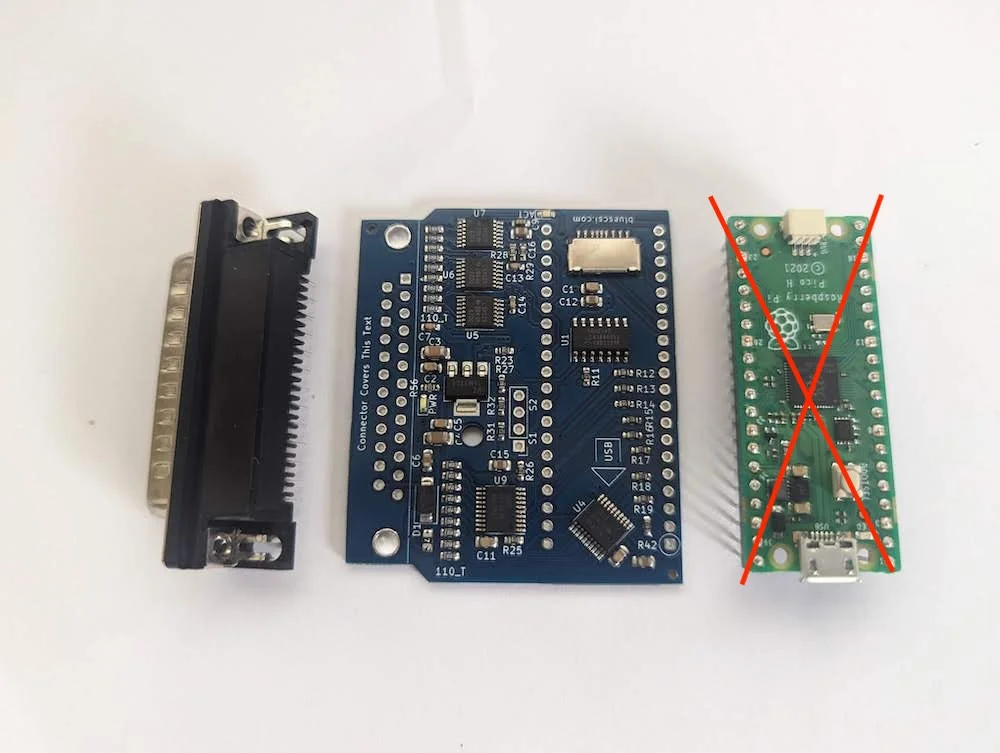
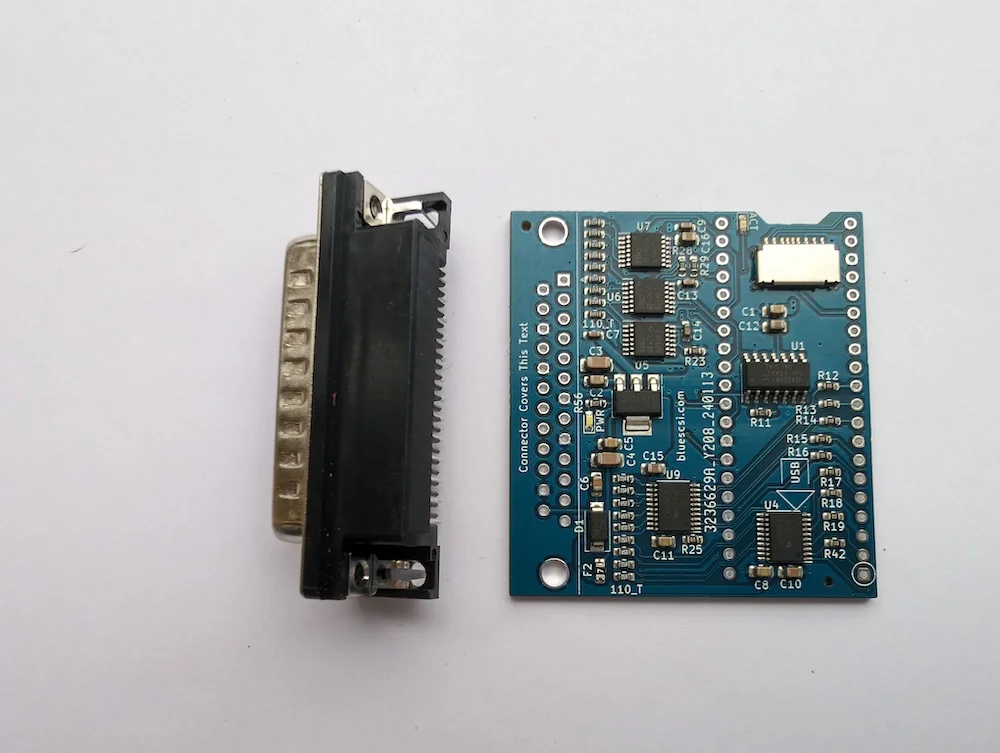
Update DB25 stuff

diff --git a/v2db25miniboardeu.md b/v2db25miniboardeu.md
@@ -6,7 +6,8 @@ cart_name: "V2 BlueSCSI DB25 Mini Board EU"
 cart_description: "V2 BlueSCSI DB25 Mini Board only Solder Kit"
 cart_price: 48
 cart_image: "assets/img/v2db25miniboard.webp"
-cart_image1: "assets/img/DB25mini_pcb.jpg"
+cart_image1: "assets/img/DB25_pcb.webp"
+cart_image2: "assets/img/DB25_pcb1.webp"
 tags: 
   - scsi
   - db25euv2
@@ -14,11 +15,11 @@ tags:
 
 ##### 🇪🇺 V2 DB25 Mini Board EU 🇪🇺
 
-{% include carousel2.html %}
+{% include carousel3.html %}
 
-This is the NEW Board only version 2 DB25 Mini Kit version of the BlueSCSI for EU buyers. This is usually used externally from the computer. Some soldering will be required to complete this device. If you prefer a complete and tested device please choose the Full option. The Suface Mount Components are pre-soldered to the PCB so only through hole soldering is required. The normal hex nuts have been replaced with flat screws so as to allow plugging into the 25 pin socket flush. You will need to supply your own Raspberry Pi Pico!
+This is the NEW Board (2024.01a) only version 2 DB25 Mini Kit version of the BlueSCSI for EU buyers. This is usually used externally from the computer. Some soldering will be required to complete this device. If you prefer a complete and tested device please choose the Full option. The Suface Mount Components are pre-soldered to the PCB so only through hole soldering is required. The normal hex nuts have been replaced with flat screws so as to allow plugging into the 25 pin socket flush. You will need to supply your own Raspberry Pi Pico!
 
-* New Mini Version 2 (No Pico supplied)
+* New Mini Version (2024.01a) (No Pico supplied)
 * SMD already soldered
 * Hex nuts replaced with screws
 * Always on termination (no termination jumper)

diff --git a/v2db25miniboarduk.md b/v2db25miniboarduk.md
@@ -6,7 +6,8 @@ cart_name: "V2 BlueSCSI DB25 Mini Board UK"
 cart_description: "V2 BlueSCSI DB25 Mini Board only Solder Kit"
 cart_price: 32
 cart_image: "assets/img/v2db25miniboard.webp"
-cart_image1: "assets/img/DB25mini_pcb.jpg"
+cart_image1: "assets/img/DB25_pcb.webp"
+cart_image2: "assets/img/DB25_pcb1.webp"
 tags: 
   - scsi
   - db25ukv2
@@ -14,11 +15,11 @@ tags:
 
 ##### 🇬🇧 V2 DB25 Mini Board UK 🇬🇧
 
-{% include carousel2.html %}
+{% include carousel3.html %}
 
-This is the NEW Board only version 2 DB25 Mini Kit version of the BlueSCSI for UK buyers. This is usually used externally from the computer. Some soldering will be required to complete this device. If you prefer a complete and tested device please choose the Full option. The Suface Mount Components are pre-soldered to the PCB so only through hole soldering is required. The normal hex nuts have been replaced with flat screws so as to allow plugging into the 25 pin socket flush. You will need to supply your own Raspberry Pi Pico!
+This is the NEW Board (2024.01a) only version 2 DB25 Mini Kit version of the BlueSCSI for UK buyers. This is usually used externally from the computer. Some soldering will be required to complete this device. If you prefer a complete and tested device please choose the Full option. The Suface Mount Components are pre-soldered to the PCB so only through hole soldering is required. The normal hex nuts have been replaced with flat screws so as to allow plugging into the 25 pin socket flush. You will need to supply your own Raspberry Pi Pico!
 
-* New Mini Version 2 (No Pico supplied)
+* New Mini Version (2024.01a) (No Pico supplied)
 * SMD already soldered
 * Hex nuts replaced with screws
 * Always on termination (no termination jumper)

diff --git a/v2db25minikiteu.md b/v2db25minikiteu.md
@@ -5,8 +5,9 @@ cart_itemid: v2db25minikiteu
 cart_name: "V2 BlueSCSI DB25 Mini Kit EU"
 cart_description: "V2 BlueSCSI DB25 Mini Solder Kit"
 cart_price: 54
-cart_image: "assets/img/v2db25minikit.jpg"
-cart_image1: "assets/img/DB25mini_pcb.jpg"
+cart_image: "assets/img/v2db25mini.webp"
+cart_image1: "assets/img/DB25_pcb.webp"
+cart_image2: "assets/img/DB25_pcb1.webp"
 tags: 
   - scsi
   - db25euv2
@@ -14,9 +15,9 @@ tags:
 
 ##### 🇪🇺 V2 DB25 Mini Kit EU 🇪🇺
 
-{% include carousel2.html %}
+{% include carousel3.html %}
 
-This is the NEW version 2 DB25 Mini Kit version of the BlueSCSI for EU buyers. This is usually used externally from the computer. Some soldering will be required to complete this device. If you prefer a complete and tested device please choose the Full option. The Suface Mount Components are pre-soldered to the PCB so only through hole soldering is required. The normal hex nuts have been replaced with flat screws so as to allow plugging into the 25 pin socket flush.
+This is the NEW version (2024.01a) DB25 Mini Kit version of the BlueSCSI for EU buyers. This is usually used externally from the computer. Some soldering will be required to complete this device. If you prefer a complete and tested device please choose the Full option. The Suface Mount Components are pre-soldered to the PCB so only through hole soldering is required. The normal hex nuts have been replaced with flat screws so as to allow plugging into the 25 pin socket flush.
 
 * New Mini Version 2
 * SMD already soldered

diff --git a/v2db25minikituk.md b/v2db25minikituk.md
@@ -5,8 +5,9 @@ cart_itemid: v2db25minikituk
 cart_name: "V2 BlueSCSI DB25 Mini Kit UK"
 cart_description: "V2 BlueSCSI DB25 Mini Solder Kit"
 cart_price: 38
-cart_image: "assets/img/v2db25minikit.jpg"
-cart_image1: "assets/img/DB25mini_pcb.jpg"
+cart_image: "assets/img/v2db25mini.webp"
+cart_image1: "assets/img/DB25_pcb.webp"
+cart_image2: "assets/img/DB25_pcb1.webp"
 tags: 
   - scsi
   - db25ukv2
@@ -14,9 +15,9 @@ tags:
 
 ##### 🇬🇧 V2 DB25 Mini Kit UK 🇬🇧
 
-{% include carousel2.html %}
+{% include carousel3.html %}
 
-This is the NEW version 2 DB25 Mini Kit version of the BlueSCSI for UK buyers. This is usually used externally from the computer. Some soldering will be required to complete this device. If you prefer a complete and tested device please choose the Full option. The Suface Mount Components are pre-soldered to the PCB so only through hole soldering is required. The normal hex nuts have been replaced with flat screws so as to allow plugging into the 25 pin socket flush.
+This is the NEW version (2024.01a) DB25 Mini Kit version of the BlueSCSI for UK buyers. This is usually used externally from the computer. Some soldering will be required to complete this device. If you prefer a complete and tested device please choose the Full option. The Suface Mount Components are pre-soldered to the PCB so only through hole soldering is required. The normal hex nuts have been replaced with flat screws so as to allow plugging into the 25 pin socket flush.
 
 * New Mini Version 2
 * SMD already soldered

diff --git a/v2db25minieu.md b/v2db25minieu.md
@@ -5,8 +5,9 @@ cart_itemid: v2db25minieu
 cart_name: "V2 BlueSCSI DB25 Mini EU"
 cart_description: "V2 BlueSCSI DB25 Mini - Full Version"
 cart_price: 65
-cart_image: "assets/img/v2db25mini.jpg"
-cart_image1: "assets/img/DB25mini_pcb.jpg"
+cart_image: "assets/img/v2db25mini.webp"
+cart_image1: "assets/img/DB25_pcb.webp"
+cart_image2: "assets/img/DB25_pcb1.webp"
 tags: 
   - scsi
   - db25euv2
@@ -14,9 +15,9 @@ tags:
 
 ##### 🇪🇺 V2 DB25 Mini Full EU 🇪🇺
 
-{% include carousel2.html %}
+{% include carousel3.html %}
 
-This is the NEW version 2 DB25 Mini Full version of the BlueSCSI for EU buyers. This is usually used externally from the computer. This is a complete and tested device. The normal hex nuts have been replaced with flat screws so as to allow plugging into the 25 pin socket flush.
+This is the NEW version (2024.01a) DB25 Mini Full version of the BlueSCSI for EU buyers. This is usually used externally from the computer. This is a complete and tested device. The normal hex nuts have been replaced with flat screws so as to allow plugging into the 25 pin socket flush.
 
 * New Mini Version 2
 * Tested and complete

diff --git a/v2db25miniuk.md b/v2db25miniuk.md
@@ -5,8 +5,9 @@ cart_itemid: v2db25miniuk
 cart_name: "V2 BlueSCSI DB25 Mini UK"
 cart_description: "V2 BlueSCSI DB25 Mini - Full Version"
 cart_price: 52
-cart_image: "assets/img/v2db25mini.jpg"
-cart_image1: "assets/img/DB25mini_pcb.jpg"
+cart_image: "assets/img/v2db25mini.webp"
+cart_image1: "assets/img/DB25_pcb.webp"
+cart_image2: "assets/img/DB25_pcb1.webp"
 tags: 
   - scsi
   - db25ukv2
@@ -14,9 +15,9 @@ tags:
 
 ##### 🇬🇧 V2 DB25 Mini Full UK 🇬🇧
 
-{% include carousel2.html %}
+{% include carousel3.html %}
 
-This is the NEW version 2 DB25 Mini Full version of the BlueSCSI for UK buyers. This is usually used externally from the computer. This is a complete and tested device. The normal hex nuts have been replaced with flat screws so as to allow plugging into the 25 pin socket flush.
+This is the NEW version (2024.01a) DB25 Mini Full version of the BlueSCSI for UK buyers. This is usually used externally from the computer. This is a complete and tested device. The normal hex nuts have been replaced with flat screws so as to allow plugging into the 25 pin socket flush.
 
 * New Mini Version 2
 * Tested and complete

diff --git a/index.md b/index.md
@@ -36,7 +36,7 @@ note: true
                             <!-- Sale badge-->
                             <div class="badge bg-dark text-white position-absolute" style="top: 0.5rem; right: 0.5rem">EU</div>
                             <!-- Product image-->
-                            <img class="card-img-top" src="assets/img/3dprintdb25mini1.webp" alt="3dprinting" />
+                            <img class="card-img-top" src="assets/img/v2db25mini.webp" alt="3dprinting" />
                             <!-- Product details-->
                             <div class="card-body p-4">
                                 <div class="text-center">
